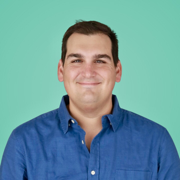
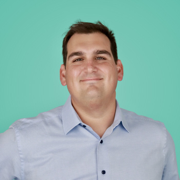
Update headshot photo across site (#149)
Replace headshot with new photo on home page, about page, MarcMan game,
johnny page, social share metadata, and browser icons (favicon, icon.png,
apple-icon.png).

diff --git a/app/layout.tsx b/app/layout.tsx
@@ -77,7 +77,7 @@ export const metadata: Metadata = {
       "Houston-based product leader and tech founder. Head of Product at Thread, formerly Twilio/Zipwhip, Tempus AI, Getty Images, Buffer.",
     images: [
       {
-        url: "/headshot.png?v=2",
+        url: "/headshot-v2.jpeg",
         width: 1200,
         height: 1200,
         alt: "Marc Anthony Rosa",
@@ -89,7 +89,7 @@ export const metadata: Metadata = {
     title: "Marc Anthony Rosa — Head of Product (Houston, TX)",
     description:
       "Houston-based product leader and tech founder. Head of Product at Thread, formerly Twilio/Zipwhip, Tempus AI.",
-    images: ["/headshot.png?v=2"],
+    images: ["/headshot-v2.jpeg"],
     creator: "@marcanthonyrosa",
   },
   manifest: "/site.webmanifest",
@@ -118,7 +118,7 @@ export default function RootLayout({
               additionalName: "Anthony",
               familyName: "Rosa",
               url: "https://marcrosa.com",
-              image: "https://marcrosa.com/headshot.png?v=2",
+              image: "https://marcrosa.com/headshot-v2.jpeg",
               jobTitle: "Head of Product",
               description:
                 "Houston-based product leader and tech founder. Head of Product, formerly Thread, Twilio/Zipwhip, Tempus AI, Getty Images, Buffer.",

diff --git a/components/game/HeadshotOrGame.tsx b/components/game/HeadshotOrGame.tsx
@@ -238,7 +238,7 @@ export default function HeadshotOrGame() {
   // Pre-load headshot on mount
   useEffect(() => {
     const img = new window.Image();
-    img.src = "/headshot.jpeg";
+    img.src = "/headshot-v2.jpeg";
     img.onload = () => {
       imgRef.current = img;
       imgSizeRef.current = { w: img.naturalWidth, h: img.naturalHeight };
@@ -533,7 +533,7 @@ export default function HeadshotOrGame() {
         <MarcManGame onExit={startExit} />
       ) : (
         <Image
-          src="/headshot.jpeg"
+          src="/headshot-v2.jpeg"
           alt="Marc Anthony Rosa"
           width={1200}
           height={1200}

diff --git a/public/johnny.html b/public/johnny.html
@@ -692,7 +692,7 @@
 
   <!-- ── NAV ── -->
   <nav>
-    <a class="nav-logo" href="/"><img src="/headshot.jpeg" alt="Marc Anthony Rosa" /></a>
+    <a class="nav-logo" href="/"><img src="/headshot-v2.jpeg" alt="Marc Anthony Rosa" /></a>
     <div class="nav-links">
       <a href="#features">Features</a>
       <a href="#specs">Specs</a>

diff --git a/components/HomeHero.tsx b/components/HomeHero.tsx
@@ -8,7 +8,7 @@ export function HomeHero() {
     <div className="flex items-start gap-4 mb-8">
       <div className="mt-[3px]" style={{ flexShrink: 0 }}>
         <Image
-          src="/headshot.jpeg"
+          src="/headshot-v2.jpeg"
           alt="Marc Anthony Rosa"
           width={AVATAR_SIZE}
           height={AVATAR_SIZE}

diff --git a/app/johnny/page.tsx b/app/johnny/page.tsx
@@ -49,7 +49,7 @@ export default function JohnnyPage() {
       <nav className={styles.nav}>
         <a className={styles.navLogo} href="/">
           <Image
-            src="/headshot.jpeg"
+            src="/headshot-v2.jpeg"
             alt="Marc Anthony Rosa"
             width={32}
             height={32}

diff --git a/components/game/MarcManGame.tsx b/components/game/MarcManGame.tsx
@@ -364,7 +364,7 @@ export default function MarcManGame({ onExit }: { onExit: () => void }) {
   // pre-load headshot
   useEffect(() => {
     const head = new Image();
-    head.src = "/headshot.jpeg";
+    head.src = "/headshot-v2.jpeg";
     head.onload = () => { imgRef.current = head; };
   }, []);
 
